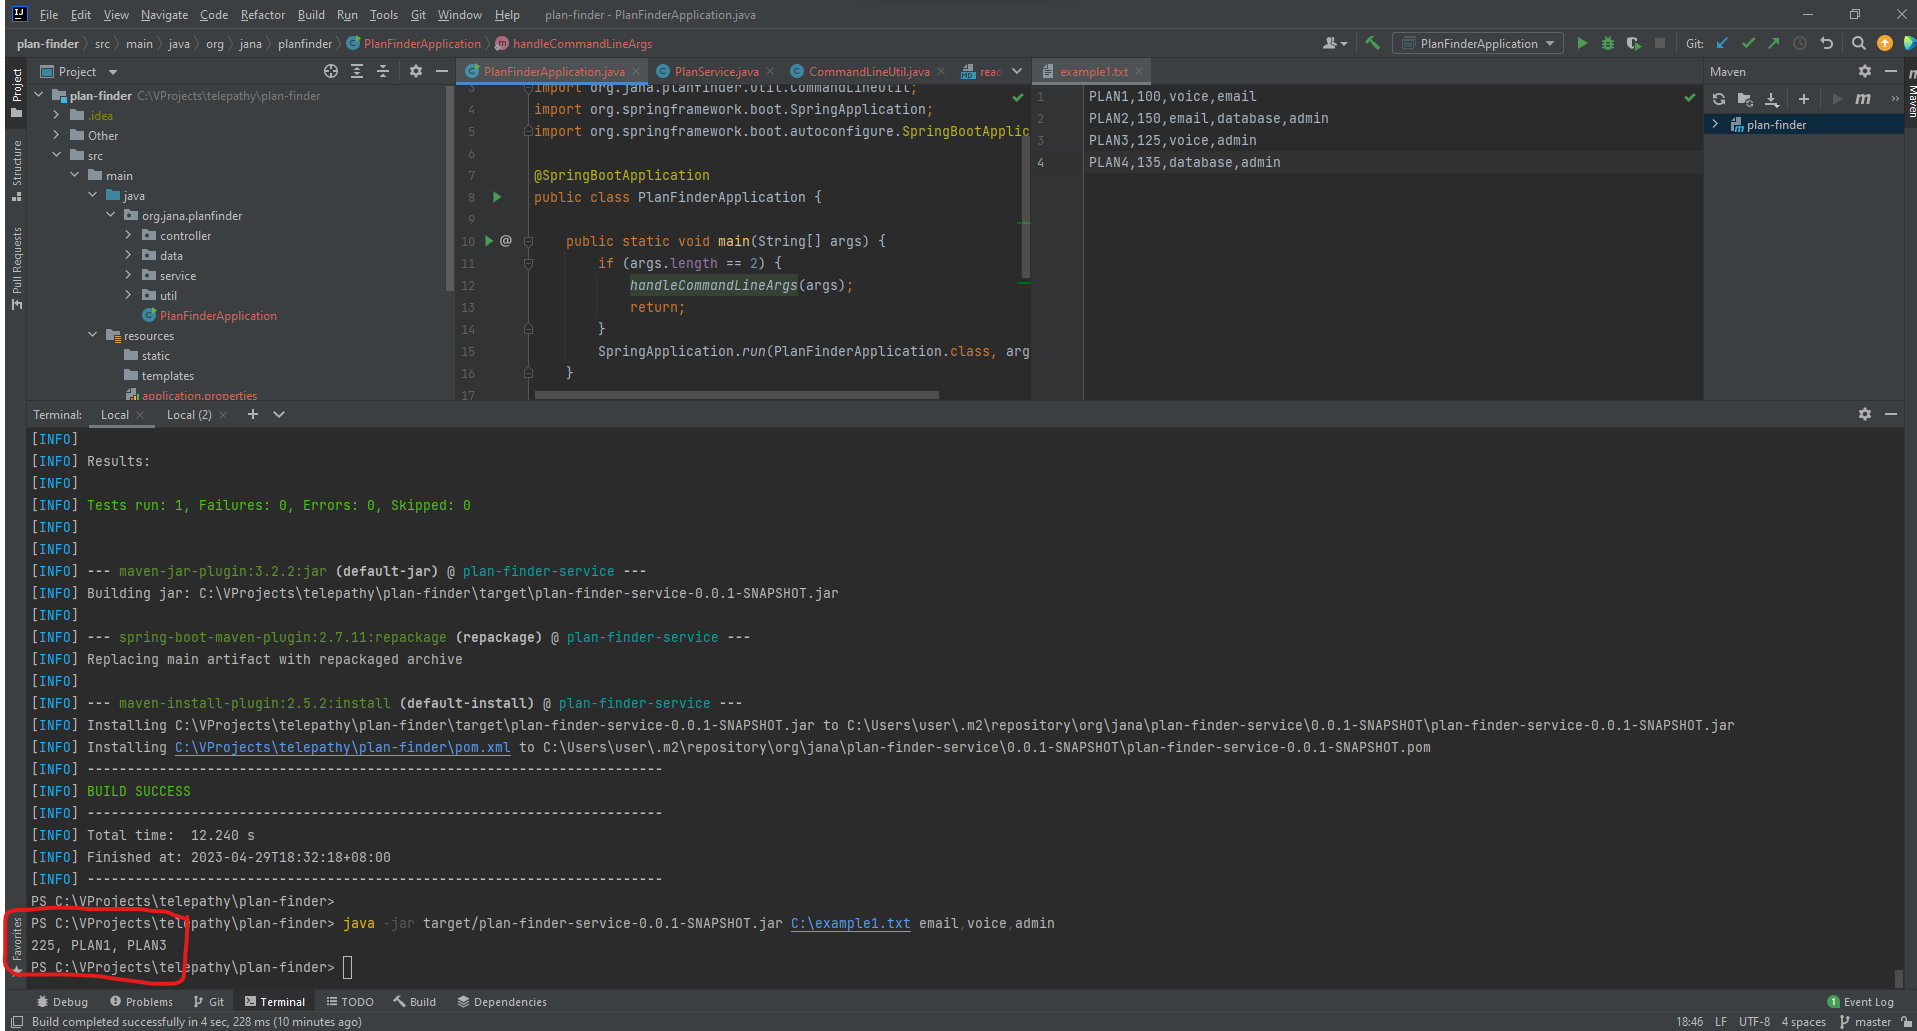
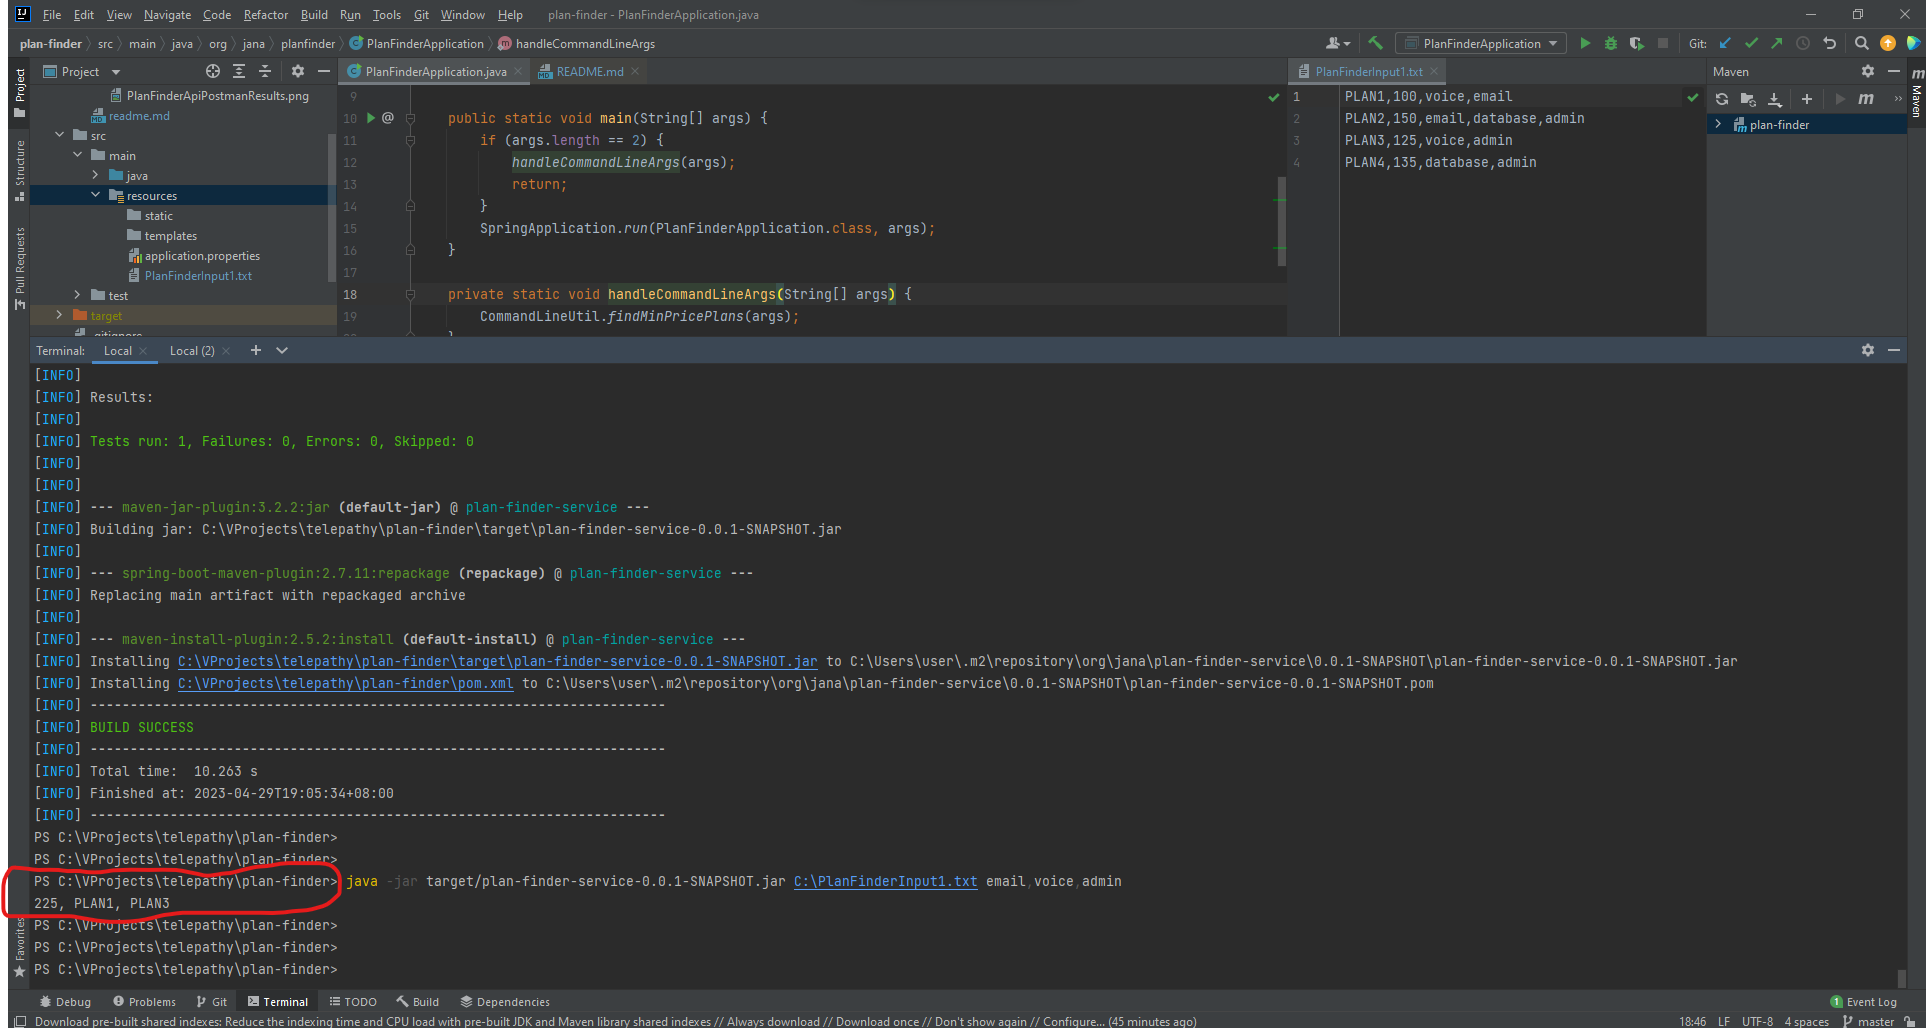
Add testing pictures

diff --git a/plan-finder/Other/readme.md b/plan-finder/Other/readme.md
@@ -1,15 +1,3 @@
-Commands
-
-> cd plan-finer
-> mvn clean install 
-
-To run as a webservice
-> java -jar target/plan-finder-service-0.0.1-SNAPSHOT.jar
-
-To run in terminal
-> java -jar target/plan-finder-service-0.0.1-SNAPSHOT.jar C:\example1.txt email,voice,admin
-
-
 
 # -------------------------------------------------------------------------- #
 

diff --git a/README.md b/README.md
@@ -9,8 +9,8 @@ Commands:
 # ---------------------------------- #
 ### Plan Finder ###
 
-Commands
-> cd plan-finer
+Commands:
+> cd plan-finder
 > mvn clean install
 
 To run as a webservice
